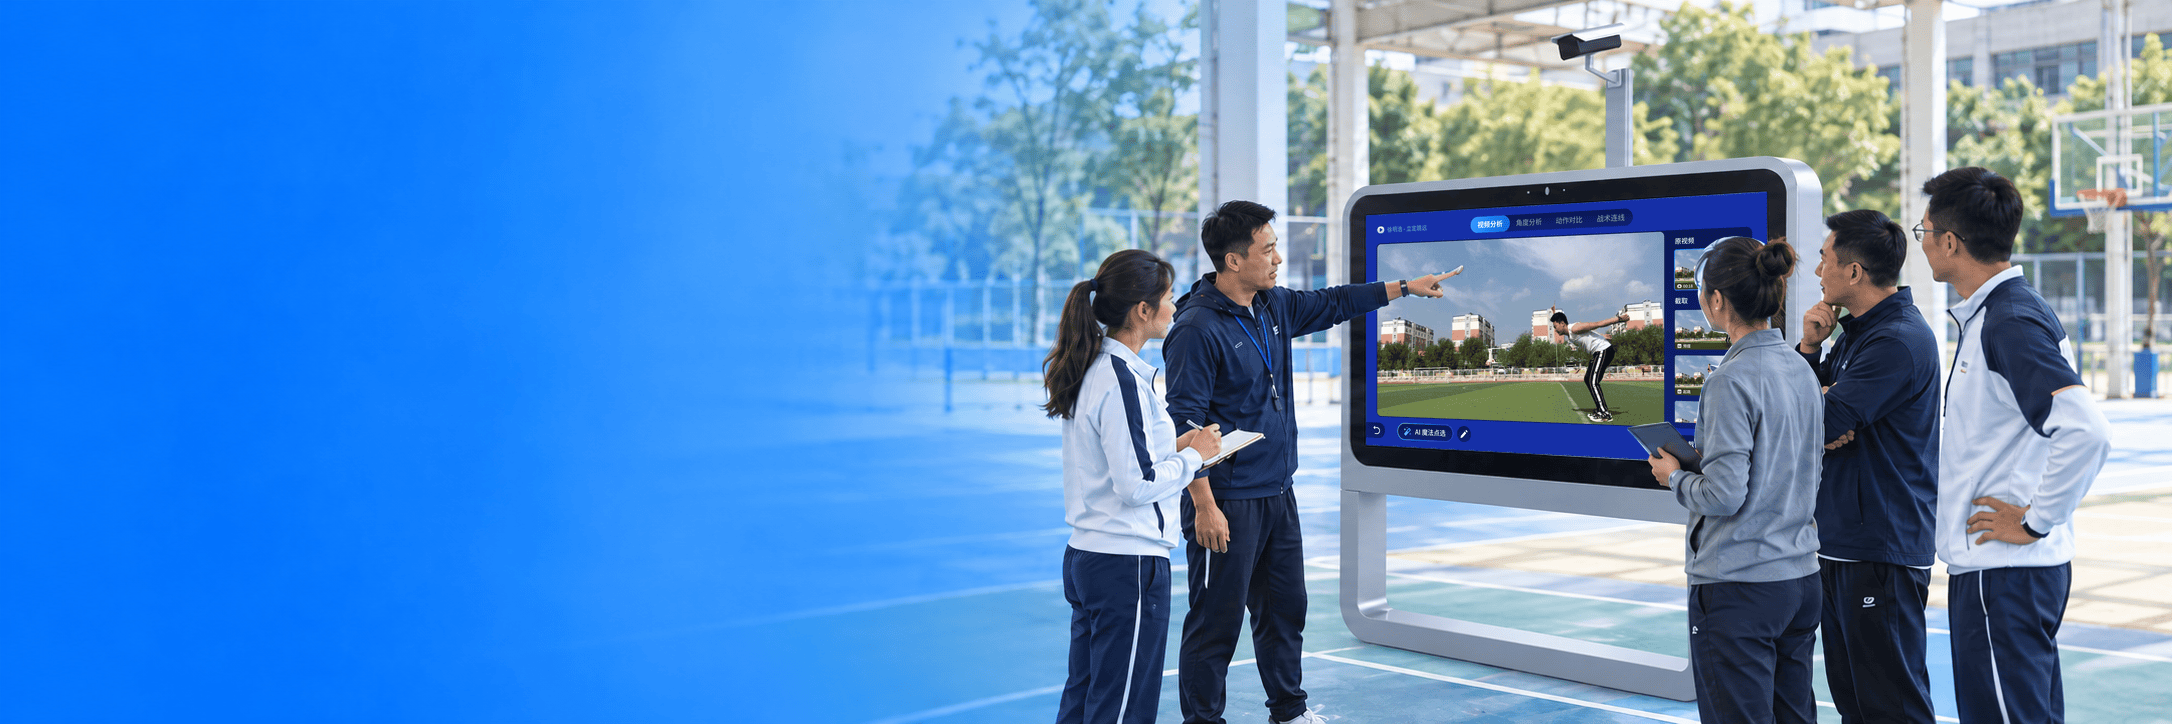
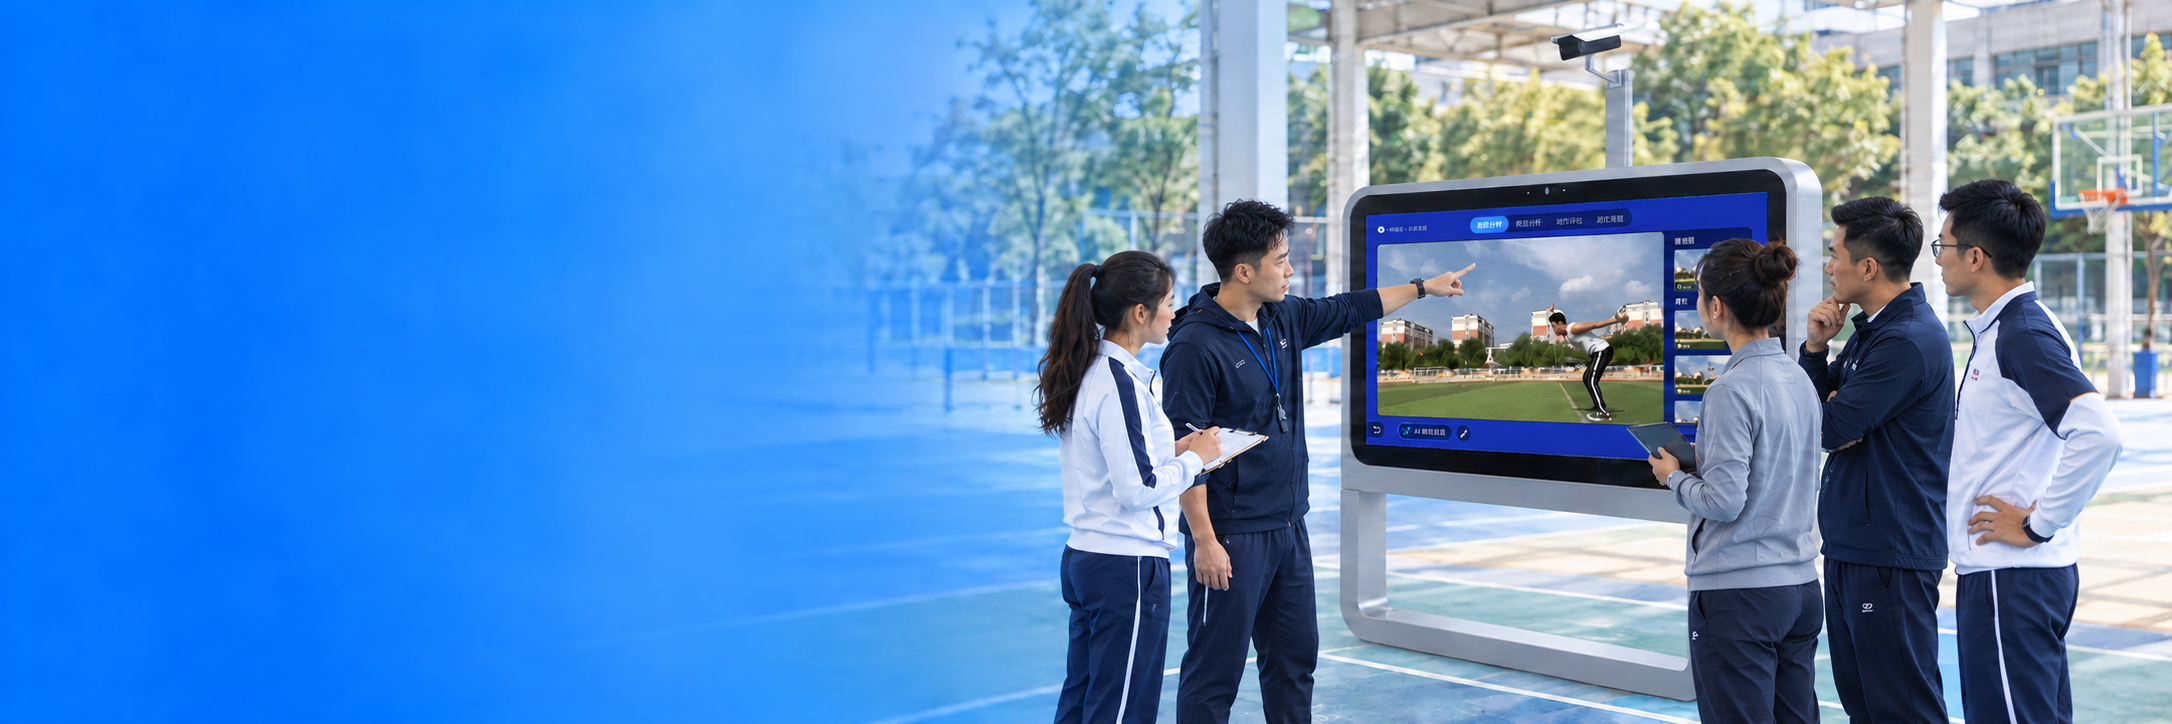
feat(portal): 更新组件样式与逻辑
- 在 CatalogCategoryTabs.vue 中调整标签显示逻辑，优化用户体验
- 在 PreviewFrame.vue 中强制边框样式，确保一致性
- 在 ResourceDetailLayout.vue 中移除多余的阴影样式，简化布局
- 更新 research-hero.png 图片资源

diff --git a/apps/portal/app/components/catalog/CatalogCategoryTabs.vue b/apps/portal/app/components/catalog/CatalogCategoryTabs.vue
@@ -9,16 +9,20 @@ const { t } = useI18n()
 </script>
 
 <template>
-  <div class="catalog-category-tabs" role="group" :aria-label="t('catalog.category')">
-    <button
-      v-if="channel === 'school'"
+  <div
+    v-if="channel === 'research'"
+    class="catalog-category-tabs"
+    role="group"
+    :aria-label="t('catalog.category')"
+  >
+    <!--<button
       class="control-feedback"
       type="button"
       :aria-pressed="!category"
       @click="emit('change', '')"
     >
       <span>{{ t('catalog.allCases') }}</span>
-    </button>
+    </button>-->
     <button
       v-for="item in categories"
       :key="item.id"

diff --git a/apps/portal/app/components/catalog/ResourceDetailLayout.vue b/apps/portal/app/components/catalog/ResourceDetailLayout.vue
@@ -128,7 +128,6 @@ const publisher = computed(
       border: 0;
       border-radius: var(--ic-border-radius-lg);
       background: var(--ic-color-background-container);
-      box-shadow: inset 0 0 0 1px var(--ic-color-academy-border-panel);
     }
 
     :deep(.preview-frame__toolbar) {

diff --git a/apps/portal/app/components/catalog/PreviewFrame.vue b/apps/portal/app/components/catalog/PreviewFrame.vue
@@ -14,7 +14,7 @@ defineProps<{ title: string }>()
 <style lang="scss" scoped>
 .preview-frame {
   overflow: hidden;
-  border: 1px solid #dbe3ef;
+  border: 1px solid #dbe3ef !important;
   border-radius: 12px;
   background: #f1f5f9;
 
